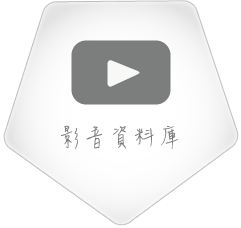
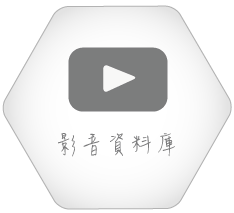
所有的首頁icon都改為六角形，並加入userInfo

diff --git a/public/index--原稿.html b/public/index--原稿.html
@@ -1,0 +1,85 @@
+<!DOCTYPE html>
+<html>
+<head>
+<meta charset="UTF-8">
+<meta name="viewport" content="width=device-width, initial-scale=1">
+<title>安心上路</title>
+
+<!-- jQuery -->
+<script type="text/javascript" src="//code.jquery.com/jquery-latest.js"></script>
+
+<!-- ** Bootstrap ** -->
+<!-- Latest compiled and minified CSS -->
+<link rel="stylesheet" href="//netdna.bootstrapcdn.com/bootstrap/3.1.1/css/bootstrap.min.css">
+<!-- Latest compiled and minified JavaScript -->
+<script src="//netdna.bootstrapcdn.com/bootstrap/3.1.1/js/bootstrap.min.js"></script>
+
+<script>
+    (function(i,s,o,g,r,a,m){i['GoogleAnalyticsObject']=r;i[r]=i[r]||function(){
+            (i[r].q=i[r].q||[]).push(arguments)},i[r].l=1*new Date();a=s.createElement(o),
+        m=s.getElementsByTagName(o)[0];a.async=1;a.src=g;m.parentNode.insertBefore(a,m)
+    })(window,document,'script','//www.google-analytics.com/analytics.js','ga');
+
+    ga('create', 'UA-51515271-1', 'baddriver.herokuapp.com');
+    ga('send', 'pageview');
+</script>
+
+<link rel="stylesheet" href="css/index.css">
+</head>
+
+<body>
+    <div class="container-fluid">
+        <div class="row">
+            <div class="col-xs-9">
+                <h1>安心上路</h1>
+            </div>
+            <div id="fbArea" class="col-xs-3" style="margin-top: 10px"></div>
+        </div>
+    </div>
+    <hr>
+
+    <div id="body" class="container-fluid">
+        <div class="row">
+            <div class="col-xs-12">
+                <a class="btn btn-default btn-block" href="/report">我要檢舉！</a>
+            </div>
+        </div>
+        <div class="row">
+            <div class="col-xs-12">
+                <a class="btn btn-default btn-block" href="reportTips.html">檢舉撇步、Q &amp; A</a>
+            </div>
+        </div>
+        <div class="row">
+            <div class="col-xs-12">
+                <a class="btn btn-default btn-block" href="/driverRecord">管理案件</a>
+            </div>
+        </div>
+        <div class="row">
+            <div class="col-xs-12">
+                <a class="btn btn-default btn-block" href="trafficLaws.html">交通法規與好站連結</a>
+            </div>
+        </div>
+        <div class="row">
+            <div class="col-xs-12">
+                <a class="btn btn-default btn-block" href="badDriverVideos.html">影片資料庫</a>
+            </div>
+        </div>    
+        <div class="row">
+            <div class="col-xs-12">
+                <a class="btn btn-default btn-block" href="contactUs.html">關於我們</a>
+            </div>
+        </div>
+    </div>
+
+    <hr>
+    <footer>
+        <a href="/"><img src="img/logo.jpg" class="logo img-rounded"></a>
+        <div>
+            <a target="_blank" href="http://zh.m.wikipedia.org/wiki/Copyleft"><img src="img/Copyleft.svg" class="copyleft"></a>
+            CCSP 2014<br>
+            Citizens on The Road.
+        </div>
+    </footer>
+    <script type="text/javascript" src="js/login.js"></script>
+</body>
+</html>

diff --git a/public/css/index -原版.css b/public/css/index -原版.css
@@ -1,0 +1,57 @@
+body {
+    text-align: center;
+}
+
+h1 {
+    text-align: left;
+}
+
+a.back {
+    display: inline-block;
+    border-top: 15px solid #FFF;
+    border-right: 15px solid #0080C1;
+    border-bottom: 15px solid #FFF;
+    vertical-align: middle;
+    margin-right: 0.6em;
+}
+
+div.row {
+    margin-top: 6px;
+    margin-bottom: 6px;
+}
+
+table {
+    text-align: left;
+}
+
+img.logo {
+    width: 90px;
+    margin-right: 10px;
+}
+
+img.copyleft {
+    width: 15px;
+    height: 15px;
+}
+
+footer div:first-of-type {
+    display: inline-block;
+    vertical-align: middle;
+    text-align: left;
+}
+
+div#qna {
+    text-align: left;
+}
+
+a:link, a:hover, a:active, a:visited {
+    text-decoration: none;
+}
+
+.panel-heading:hover {
+    color: #0080C1;
+}
+blockquote {
+	font-family: 標楷體, Sans Serif;
+	font-size: 14px;
+}
